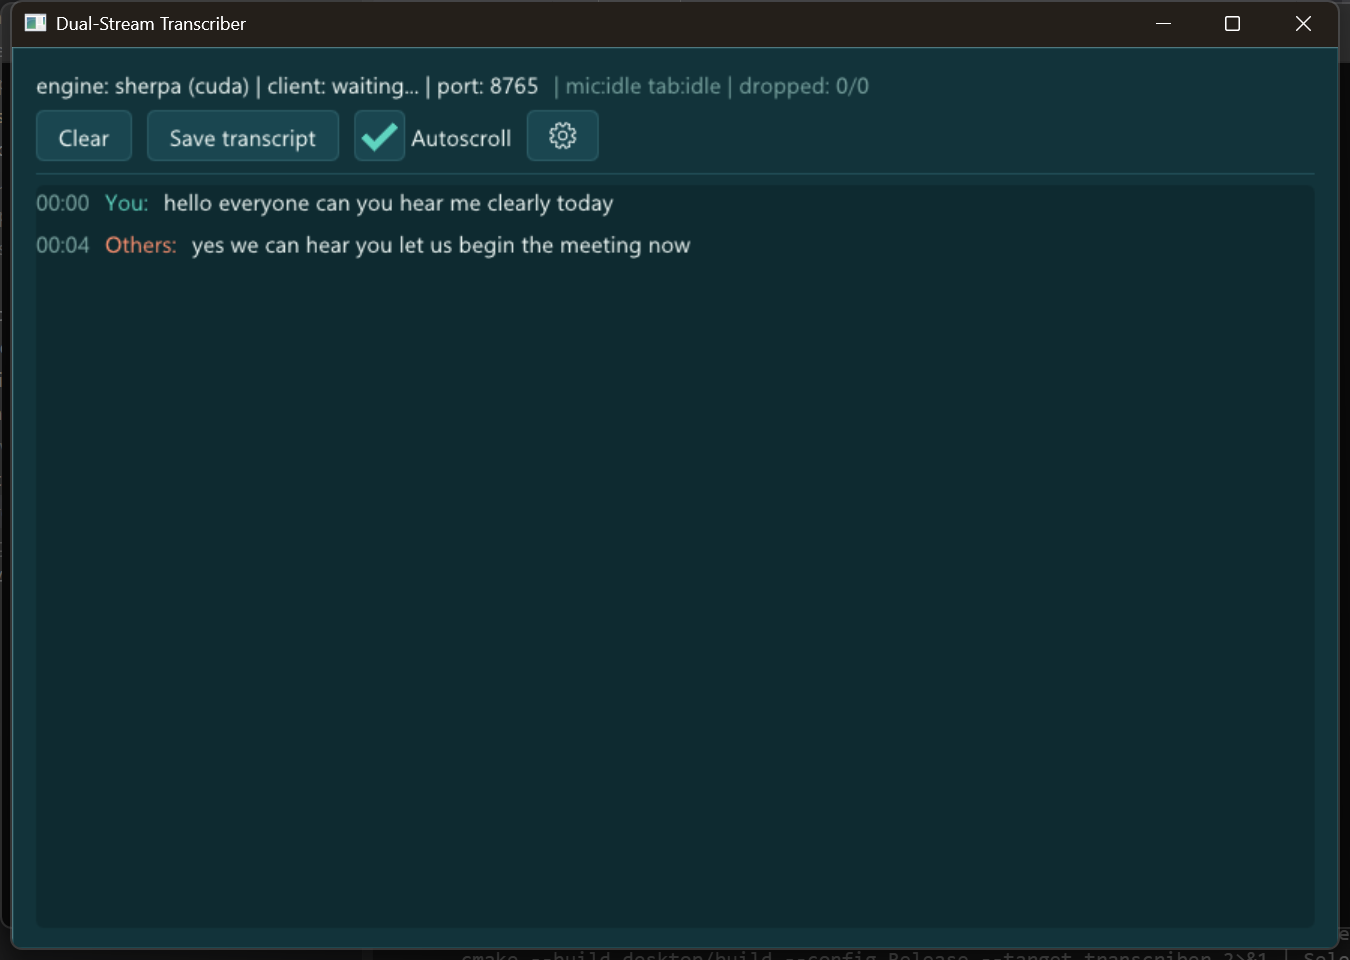
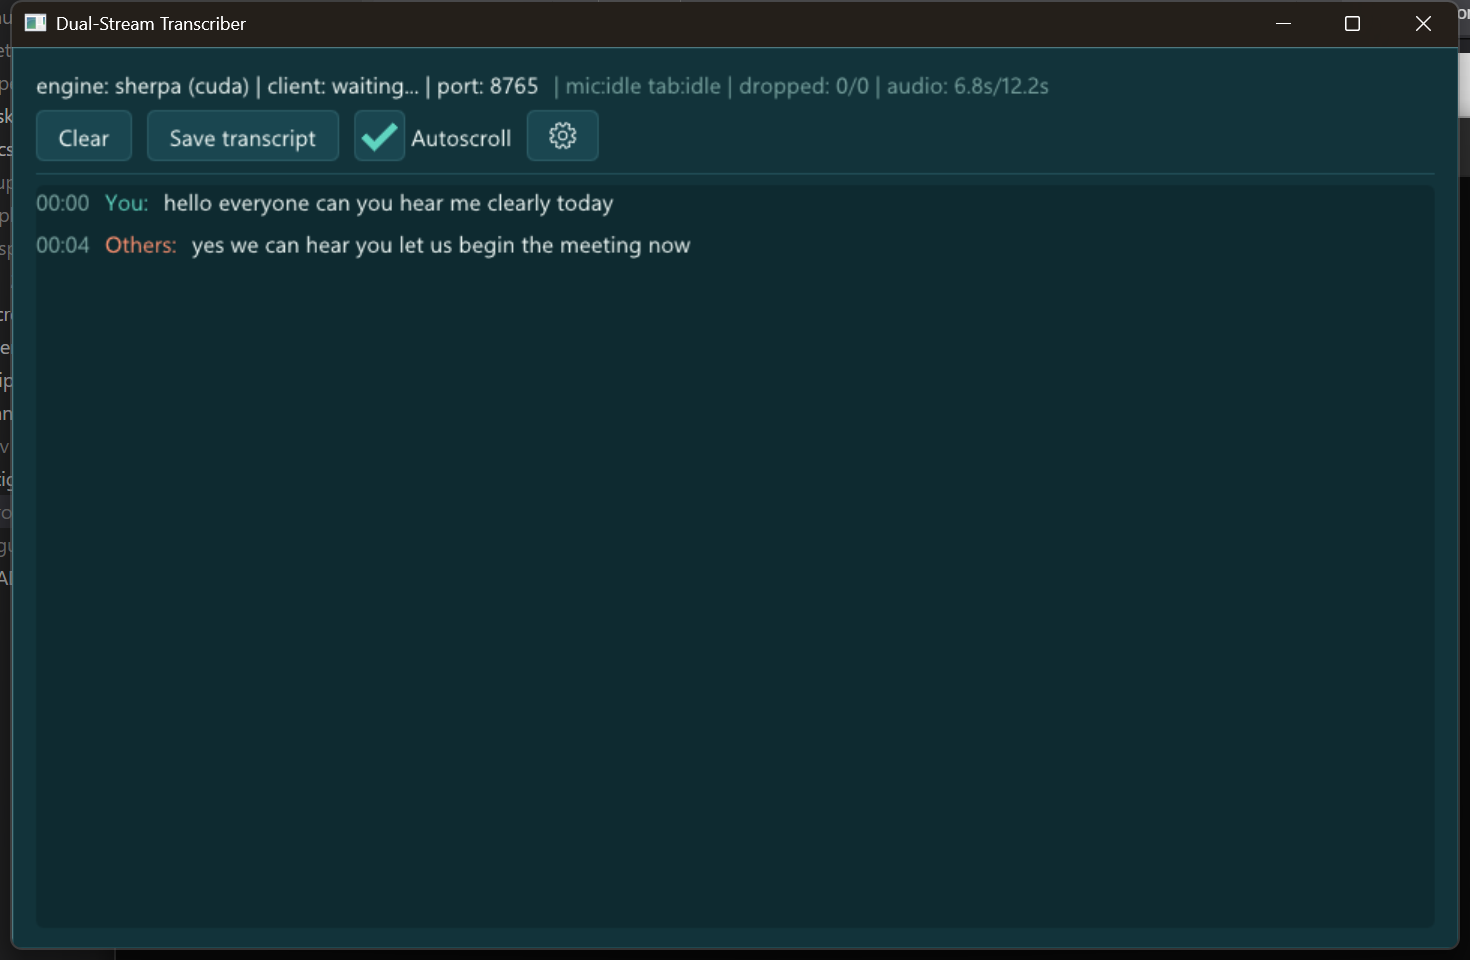
docs: refresh main screenshot (audio counter), add Settings page shot

diff --git a/README.md b/README.md
@@ -215,6 +215,8 @@ mode (e.g. Deepgram without `DEEPGRAM_API_KEY`), the error is shown and the page
 so you can pick a working mode. Headless runs and explicit `--engine`/`--provider`
 flags never show the page.
 
+![Settings page](docs/settings.png)
+
 ### Chrome extension
 
 1. Open `chrome://extensions`.
